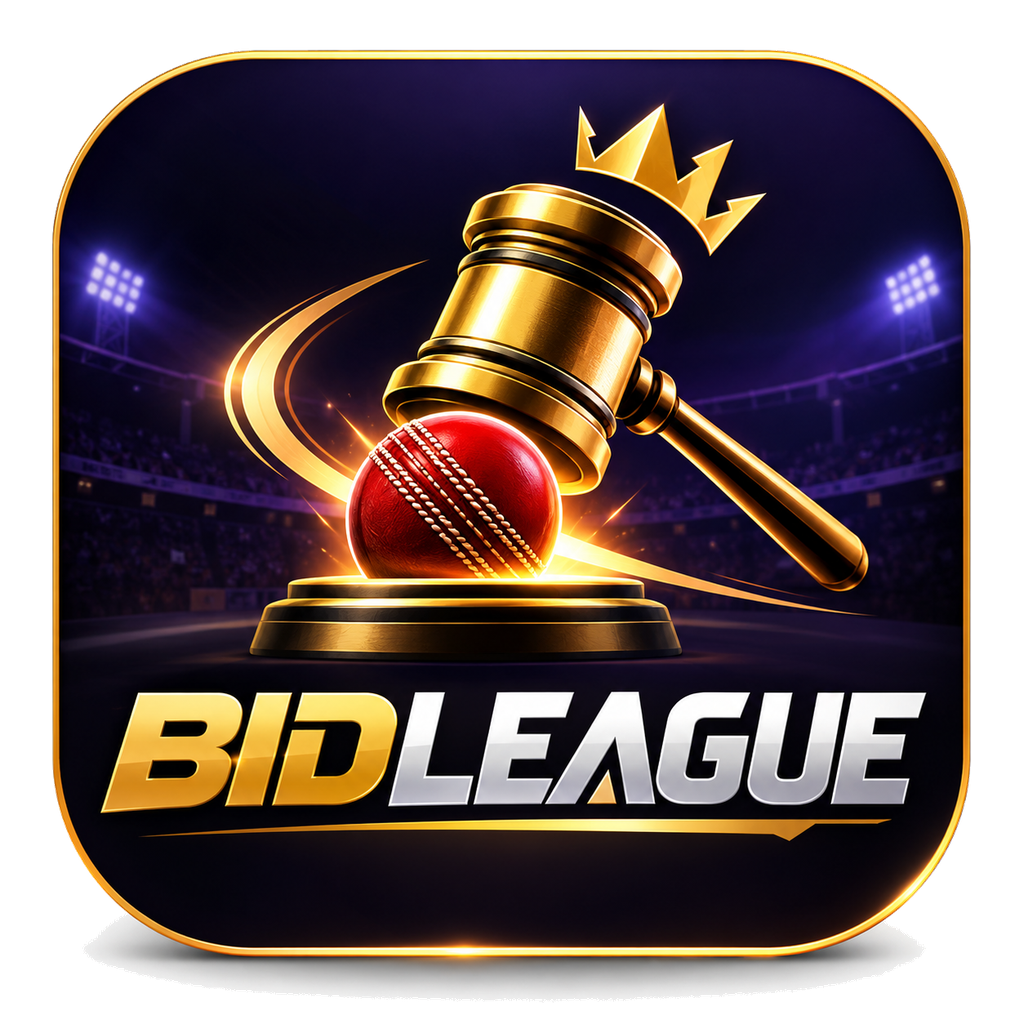
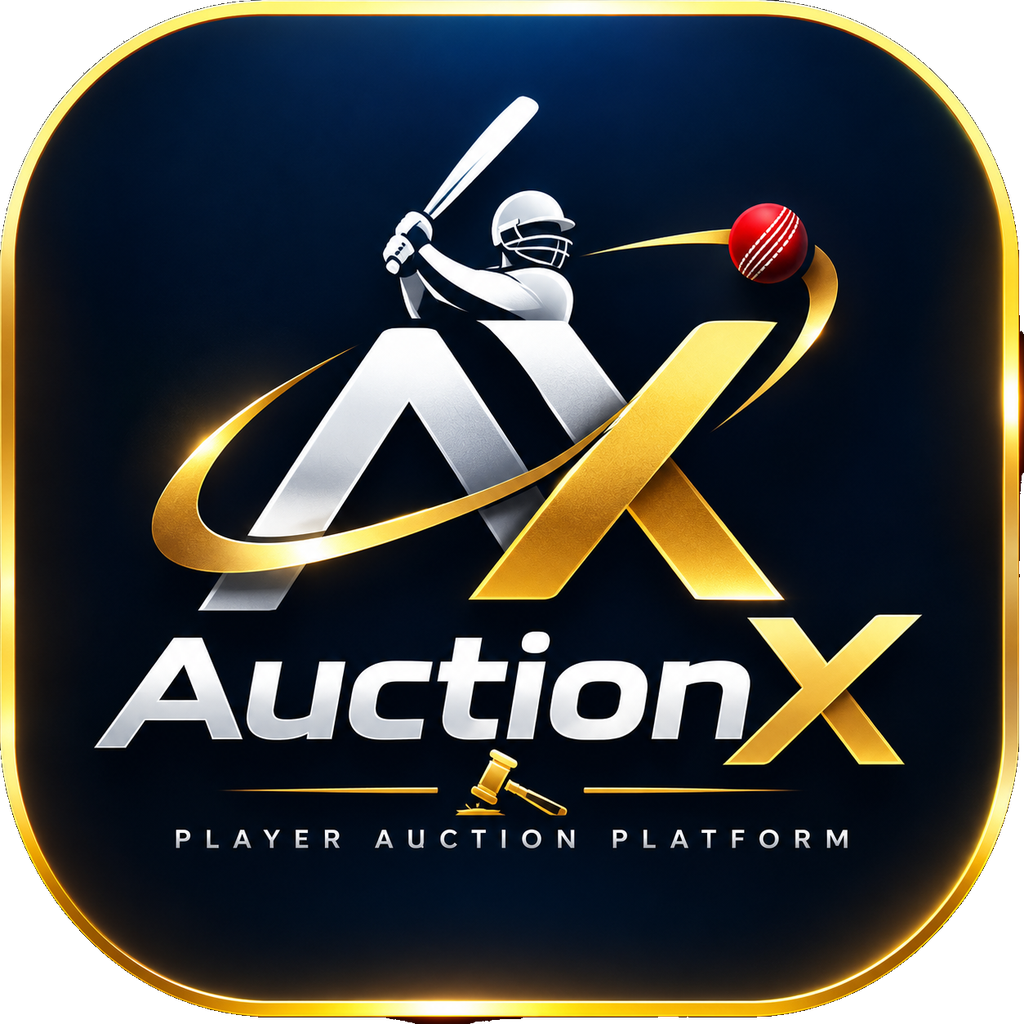
Update app and website

diff --git a/lib/splash.dart b/lib/splash.dart
@@ -15,7 +15,7 @@ const _brandStyle = TextStyle(
 );
 
 /// Premium intro (about 2.8 s): stadium lights on, golden hammer strikes, emblem is revealed,
-/// the BidLeague name shines in, then the logo zooms through into the app.
+/// the AuctionX name shines in, then the logo zooms through into the app.
 /// It sits on top of the already-loading app, so a slow start never delays the app.
 class IntroSplash extends StatefulWidget {
   final VoidCallback onDone;
@@ -64,7 +64,7 @@ class _IntroSplashState extends State<IntroSplash> with SingleTickerProviderStat
           shaderCallback: (r) => const LinearGradient(
                   begin: Alignment.topCenter, end: Alignment.bottomCenter, colors: [Color(0xFFFFE9A8), kGold, Color(0xFF9A6A1C)])
               .createShader(r),
-          child: const Text('Bid', style: _brandStyle),
+          child: const Text('Auction', style: _brandStyle),
         ),
         ShaderMask(
           shaderCallback: (r) => LinearGradient(
@@ -73,7 +73,7 @@ class _IntroSplashState extends State<IntroSplash> with SingleTickerProviderStat
             colors: const [Color(0xFFD62828), Colors.white, Color(0xFFD62828)],
             stops: const [0.25, 0.5, 0.75],
           ).createShader(r),
-          child: const Text('League', style: _brandStyle),
+          child: const Text('X', style: _brandStyle),
         ),
       ]);
 

diff --git a/test/widget_test.dart b/test/widget_test.dart
@@ -1,30 +1,8 @@
-// This is a basic Flutter widget test.
-//
-// To perform an interaction with a widget in your test, use the WidgetTester
-// utility in the flutter_test package. For example, you can send tap and scroll
-// gestures. You can also use WidgetTester to find child widgets in the widget
-// tree, read text, and verify that the values of widget properties are correct.
-
-import 'package:flutter/material.dart';
 import 'package:flutter_test/flutter_test.dart';
-
-import 'package:bidleague_online/main.dart';
+import 'package:auctionx/core.dart';
 
 void main() {
-  testWidgets('Counter increments smoke test', (WidgetTester tester) async {
-    // Build our app and trigger a frame.
-    await tester.pumpWidget(const MyApp());
-
-    // Verify that our counter starts at 0.
-    expect(find.text('0'), findsOneWidget);
-    expect(find.text('1'), findsNothing);
-
-    // Tap the '+' icon and trigger a frame.
-    await tester.tap(find.byIcon(Icons.add));
-    await tester.pump();
-
-    // Verify that our counter has incremented.
-    expect(find.text('0'), findsNothing);
-    expect(find.text('1'), findsOneWidget);
+  test('app name is AuctionX', () {
+    expect(kAppName, 'AuctionX');
   });
 }

diff --git a/web/index.html b/web/index.html
@@ -23,13 +23,13 @@
   <!-- iOS meta tags & icons -->
   <meta name="mobile-web-app-capable" content="yes">
   <meta name="apple-mobile-web-app-status-bar-style" content="black">
-  <meta name="apple-mobile-web-app-title" content="bidleague_online">
+  <meta name="apple-mobile-web-app-title" content="auctionx">
   <link rel="apple-touch-icon" href="icons/Icon-192.png">
 
   <!-- Favicon -->
   <link rel="icon" type="image/png" href="favicon.png"/>
 
-  <title>bidleague_online</title>
+  <title>auctionx</title>
   <link rel="manifest" href="manifest.json">
 </head>
 <body>

diff --git a/lib/screens.dart b/lib/screens.dart
@@ -507,7 +507,7 @@ Future<void> captainAccess(BuildContext c, Map<String, dynamic> team) async {
   });
   if (code.isEmpty || !c.mounted) return;
   final taken = team['captain_user_id'] != null;
-  final text = 'Join "$auction" as captain of ${team['name']} on BidLeague.\nCaptain code: $code\nTeam PIN: $pin\nOpen the app, then Join as captain.';
+  final text = 'Join "$auction" as captain of ${team['name']} on AuctionX.\nCaptain code: $code\nTeam PIN: $pin\nOpen the app, then Join as captain.';
   await showDialog(
     context: c,
     builder: (d) => AlertDialog(

diff --git a/lib/main.dart b/lib/main.dart
@@ -27,11 +27,11 @@ Future<void> main() async {
     return;
   }
   await Supabase.initialize(url: _url, anonKey: _key);
-  runApp(const BidLeagueApp());
+  runApp(const AuctionXApp());
 }
 
-class BidLeagueApp extends StatelessWidget {
-  const BidLeagueApp({super.key});
+class AuctionXApp extends StatelessWidget {
+  const AuctionXApp({super.key});
   @override
   Widget build(BuildContext context) => MaterialApp(
         title: kAppName,

diff --git a/lib/core.dart b/lib/core.dart
@@ -4,7 +4,7 @@ import 'package:shared_preferences/shared_preferences.dart';
 import 'package:image_picker/image_picker.dart';
 import 'package:supabase_flutter/supabase_flutter.dart';
 
-const kAppName = 'BidLeague';
+const kAppName = 'AuctionX';
 const kPrice = 2499; // organizer plan, per tournament
 
 SupabaseClient get db => Supabase.instance.client;

diff --git a/android/app/src/main/kotlin/com/auctionx/app/MainActivity.kt b/android/app/src/main/kotlin/com/auctionx/app/MainActivity.kt
@@ -1,0 +1,5 @@
+package com.auctionx.app
+
+import io.flutter.embedding.android.FlutterActivity
+
+class MainActivity : FlutterActivity()

diff --git a/linux/runner/my_application.cc b/linux/runner/my_application.cc
@@ -45,11 +45,11 @@ static void my_application_activate(GApplication* application) {
   if (use_header_bar) {
     GtkHeaderBar* header_bar = GTK_HEADER_BAR(gtk_header_bar_new());
     gtk_widget_show(GTK_WIDGET(header_bar));
-    gtk_header_bar_set_title(header_bar, "bidleague_online");
+    gtk_header_bar_set_title(header_bar, "auctionx");
     gtk_header_bar_set_show_close_button(header_bar, TRUE);
     gtk_window_set_titlebar(window, GTK_WIDGET(header_bar));
   } else {
-    gtk_window_set_title(window, "bidleague_online");
+    gtk_window_set_title(window, "auctionx");
   }
 
   gtk_window_set_default_size(window, 1280, 720);

diff --git a/windows/runner/main.cpp b/windows/runner/main.cpp
@@ -27,7 +27,7 @@ int APIENTRY wWinMain(_In_ HINSTANCE instance, _In_opt_ HINSTANCE prev,
   FlutterWindow window(project);
   Win32Window::Point origin(10, 10);
   Win32Window::Size size(1280, 720);
-  if (!window.Create(L"bidleague_online", origin, size)) {
+  if (!window.Create(L"auctionx", origin, size)) {
     return EXIT_FAILURE;
   }
   window.SetQuitOnClose(true);

diff --git a/README.md b/README.md
@@ -1,13 +1,13 @@
-# BidLeague Online (Flutter + Supabase), Phase 1
+# AuctionX Online (Flutter + Supabase), Phase 1
 
 ## 1. Backend (once)
 1. Create a free project at supabase.com.
-2. SQL editor: run the schema, step_for() and place_bid() from the BidLeague doc, THEN sql/02_functions_and_rls.sql.
+2. SQL editor: run the schema, step_for() and place_bid() from the AuctionX doc, THEN sql/02_functions_and_rls.sql.
 3. Authentication > Providers > Email: switch "Confirm email" OFF while testing.
 4. Project Settings > API: copy the Project URL and the anon public key.
 
 ## 2. App
-  flutter create --org com.yourname --project-name bidleague_online .
+  flutter create --org com.yourname --project-name auctionx .
   (delete test/widget_test.dart)
   flutter pub get
   dart run flutter_launcher_icons
@@ -35,9 +35,9 @@ Pick your own package id and keystore. Gate auctions behind payment. Hide player
   optional auto-sold (organizer's console must stay open; it uses the device clock).
 - Run sql/03_phase2.sql in Supabase.
 
-## BidAuction UI (v3)
+## AuctionX UI (v3)
 Home (today's auctions, Create Auction, View Auction by code, Captain panel), My Auction, Bookmarks, Auctioneer (placeholder), Profile.
-Run sql/04_create_auction.sql in Supabase. App label on the phone: edit android/app/src/main/AndroidManifest.xml (android:label=\"BidAuction\").
+Run sql/04_create_auction.sql in Supabase. App label on the phone: edit android/app/src/main/AndroidManifest.xml (android:label=\"AuctionX\").
 
 ## Phase 3
 - Players: tap "Add players" and paste many lines ("Name, role, base price"). Teams: paste many names, one per line.
@@ -76,10 +76,10 @@ My Bookmark, Pricing, Auctioneers, Join as player, View Auction, About Us, Tutor
 3. Copy the https://....vercel.app address: put it in lib/config.dart as kWebBase, add it to Supabase Authentication > URL Configuration > Redirect URLs,
    and to Google Cloud OAuth client > Authorized JavaScript origins. Rebuild and deploy again.
 4. Links then work: <site>/#/view/CODE (projector), <site>/#/register/CODE (player form), <site>/#/manage/CODE (organizer).
-5. Edit web/index.html <title> and web/manifest.json name to BidAuction; run dart run flutter_launcher_icons to refresh web icons.
+5. Edit web/index.html <title> and web/manifest.json name to AuctionX; run dart run flutter_launcher_icons to refresh web icons.
 
 ## Brand + theme (v7)
-App name BidLeague, icon assets/icon.png (launcher/web icon), small in-app logo assets/logo.png, banner assets/banner.jpg (splash + login).
+App name AuctionX, icon assets/icon.png (launcher/web icon), small in-app logo assets/logo.png, banner assets/banner.jpg (splash + login).
 Premium Dark theme: background #10111D, gold #DDB65B, purple #6D42C1, white text. Colours live in lib/theme.dart (kBg, kCard, kText, kGold, kPurple).
 Run: dart run flutter_launcher_icons (refreshes the app icon), then deploy.bat.
 
@@ -101,6 +101,6 @@ Create Auction: players per team, venue, point system, remote team bidding, visi
 animated bid price. Players tab: tap a photo circle to add a photo. Registration is a stand-alone page with a success screen. Run sql/09_create_extras.sql first.
 
 ## v12: animated intro + registration link
-lib/splash.dart: lights on, golden hammer strike, emblem reveal (assets/emblem.png), BidLeague name shine, zoom into the app (about 2.8 s, shown once at start,
+lib/splash.dart: lights on, golden hammer strike, emblem reveal (assets/emblem.png), AuctionX name shine, zoom into the app (about 2.8 s, shown once at start,
 respects reduced motion, never blocks the app). Link tab now starts with a Player registration link card: copy, share, open, QR, open/closed switch.
 
